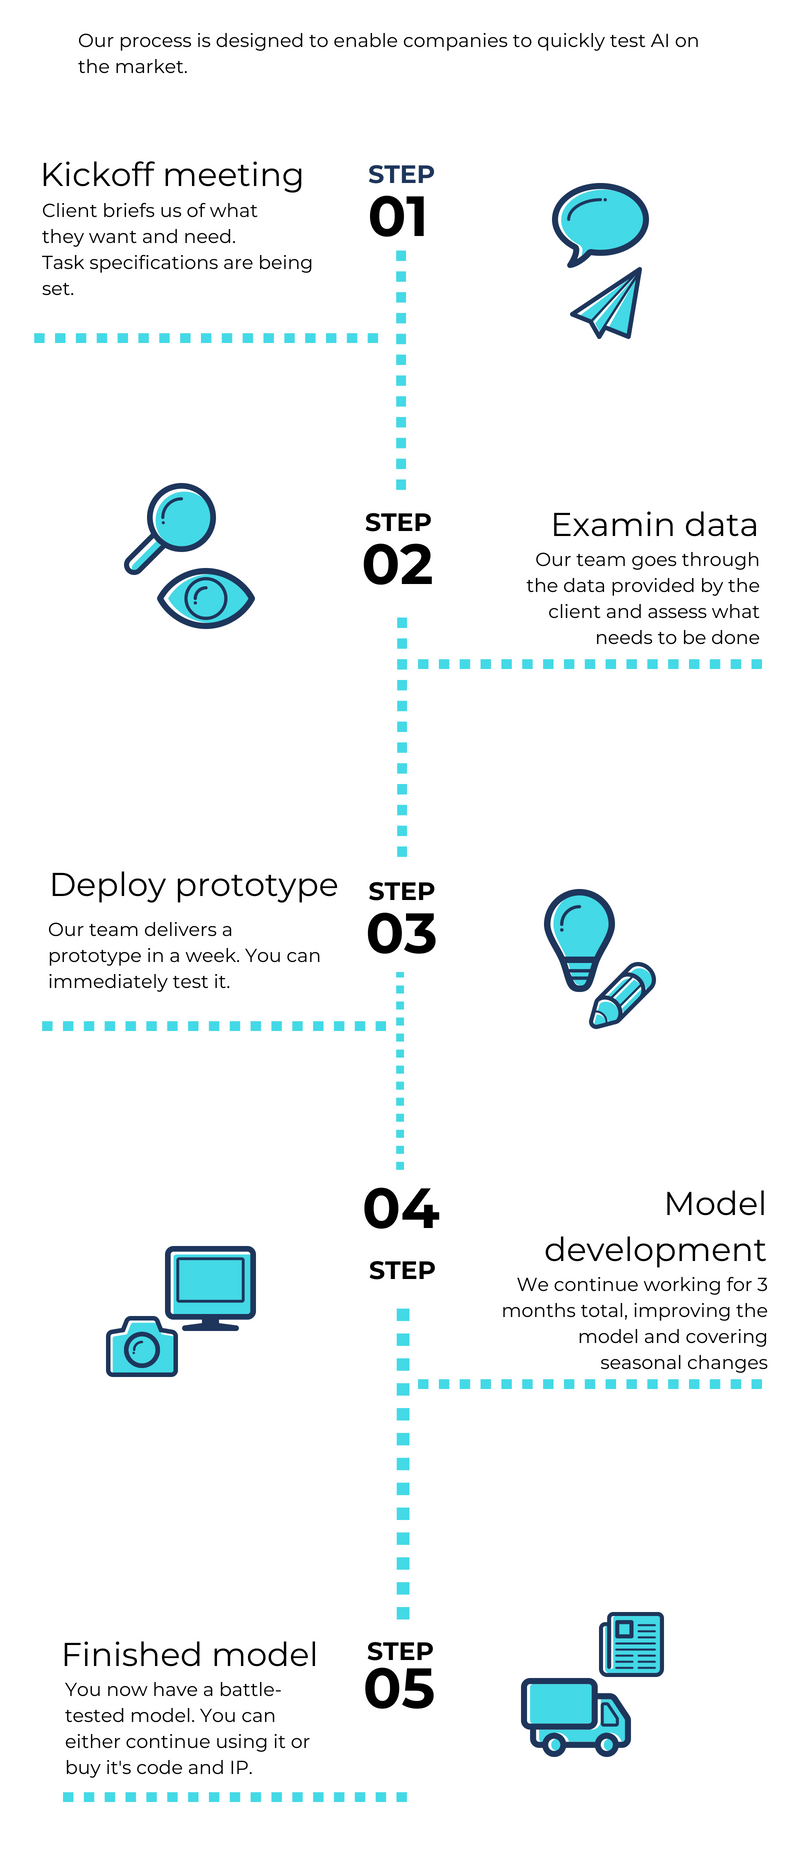
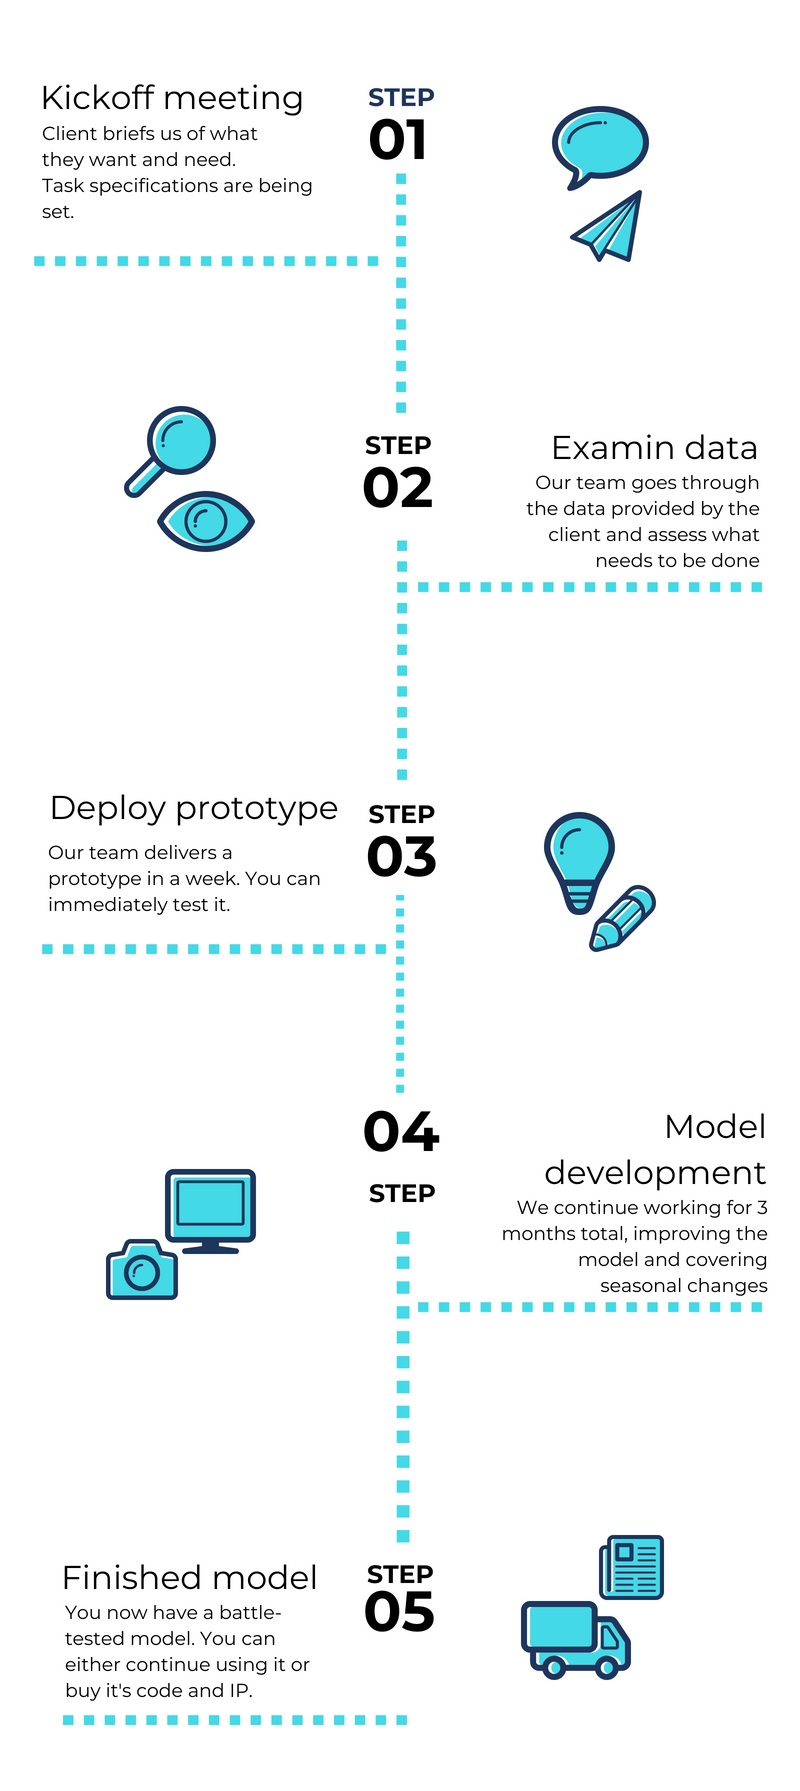
Image changes

diff --git a/Netlyt/index.html b/Netlyt/index.html
@@ -34,7 +34,7 @@
 
     <!--Header_section-->
     <header id="header_outer">
-        <div class="container">
+        <div class="container navigation-wrapper">
             <div class="header_section">
                 <div class="logo">
                     <a href="javascript:void(0)">
@@ -45,13 +45,10 @@
                     <ul class="toggle">
                         <!-- <li><a href="#top_content">Home</a></li> -->
                         <li>
-                            <a href="#service">Features</a>
+                            <a href="#service">What you get with Netlyt</a>
                         </li>
                         <li>
-                            <a href="#keySellingPoints">Key Selling Points</a>
-                        </li>
-                        <li>
-                            <a href="#work_outer">Work</a>
+                            <a href="#keySellingPoints">Why Machine Learning</a>
                         </li>
                         <li>
                             <a href="#Portfolio">Case Studies</a>
@@ -69,13 +66,10 @@
                     <ul class="">
                         <!-- <li><a href="#top_content">Home</a></li> -->
                         <li>
-                            <a href="#service">Features</a>
+                            <a href="#service">What you get with Netlyt</a>
                         </li>
                         <li>
-                            <a href="#keySellingPoints">Key Selling Points</a>
-                        </li>
-                        <li>
-                            <a href="#work_outer">Work</a>
+                            <a href="#keySellingPoints">Why Machine Learning</a>
                         </li>
                         <li>
                             <a href="#Portfolio">Case Studies</a>
@@ -161,7 +155,7 @@
 
     <section id="keySellingPoints">
         <div class="container">
-            <h2>Key Selling Points</h2>
+            <h2>Why Machine Learning</h2>
             <div class="service_area">
                 <div class="row">
                     <div class="col-lg-4 col-md-4 col-sm-4">
@@ -205,7 +199,7 @@
     <!--Features and services-->
     <section id="service">
         <div class="container">
-            <h2>Features</h2>
+            <h2>What you get with Netlyt</h2>
             <div class="service_area">
                 <div class="row">
                     <div class="col-lg-4 col-md-4 col-sm-4">
@@ -260,63 +254,6 @@
     </div>
     <!--Infographic-->
 
-
-    <section id="work_outer">
-        <!--main-section-start-->
-        <div class="top_cont_latest">
-            <div class="container">
-                <h2>Latest Work</h2>
-                <div class="work_section">
-                    <div class="row">
-                        <div class="col-lg-6 col-sm-6 wow fadeInLeft delay-05s">
-                            <div class="service-list">
-                                <div class="service-list-col1">
-                                    <i class="icon-doc"></i>
-                                </div>
-                                <div class="service-list-col2">
-                                    <h3>Process Walkthrough</h3>
-                                    <p>Proin iaculis purus digni consequat sem digni ssim. Donec entum digni ssim.</p>
-                                </div>
-                            </div>
-                            <div class="service-list">
-                                <div class="service-list-col1">
-                                    <i class="icon-comment"></i>
-                                </div>
-                                <div class="service-list-col2">
-                                    <h3>24/7 support</h3>
-                                    <p>Proin iaculis purus consequat sem digni ssim. Digni ssim porttitora .</p>
-                                </div>
-                            </div>
-                            <div class="service-list">
-                                <div class="service-list-col1">
-                                    <i class="icon-database"></i>
-                                </div>
-                                <div class="service-list-col2">
-                                    <h3>Hosting & Storage</h3>
-                                    <p>Proin iaculis purus consequat digni sem digni ssim. Purus donec porttitora entum.</p>
-                                </div>
-                            </div>
-                            <div class="service-list">
-                                <div class="service-list-col1">
-                                    <i class="icon-cog"></i>
-                                </div>
-                                <div class="service-list-col2">
-                                    <h3>Customization options</h3>
-                                    <p>Proin iaculis purus consequat sem digni ssim. Sem porttitora entum.</p>
-                                </div>
-                            </div>
-                            <div class="work_bottom">
-                                <span>Ready to take the plunge?</span>
-                                <a href="#contact" class="contact_btn">Contact Us</a>
-                            </div>
-                        </div>
-                        <figure class="col-lg-6 col-sm-6 text-right wow fadeInUp delay-02s"> </figure>
-                    </div>
-                </div>
-            </div>
-            <!--<div class="work_pic"><img src="img/dashboard_pic.png" alt=""></div>-->
-        </div>
-    </section>
     <!--main-section-end-->
 
     <!--new_portfolio-->
@@ -617,12 +554,10 @@
                     <h3 class="wow fadeInDown delay-03s">Bozhidar Yovchev</h3>
                     <span class="wow fadeInDown delay-03s">Chief Executive Officer</span>
                     <span>
-                        <i class="fa-pencil"></i>
                         <a href="mailto:bozhidar@netlyt.com"> bozhidar@netlyt.com</a>
                     </span>
-                    <span>
-                        <i class="fa fa-linkedin"></i>
-                        <a href="https://www.linkedin.com/in/byovchev/" target="blank"> Bozhidar Yovchev</a>
+                    <span>                        
+                        <a href="https://www.linkedin.com/in/byovchev/" target="blank"><i class="fa fa-linkedin"></i></a>
                     </span>
                     <p class="wow fadeInDown delay-03s">Bozhidar is a sales guy with technical background. Or the other way around. He had the great luck to meet Vasil and Tony and to make them quit their jobs.
                     </p>
@@ -638,12 +573,11 @@
                     <h3 class="wow fadeInDown delay-06s">Tony Petrov</h3>
                     <span class="wow fadeInDown delay-06s">AI researcher and ML Engineer</span>
                     <span>
-                        <i class="fa-pencil"></i>
                         <a href="mailto:tony@netlyt.com"> tony@netlyt.com</a>
                     </span>
                     <span>
-                        <i class="fa fa-linkedin"></i>
-                        <a href="https://www.linkedin.com/in/tony-petrov-5b23a8128/" target="blank"> Tony Petrov</a>
+                        
+                        <a href="https://www.linkedin.com/in/tony-petrov-5b23a8128/" target="blank"> <i class="fa fa-linkedin"></i></a>
                     </span>
                     <p class="wow fadeInDown delay-06s">Тony is an AI engineer. He does that because he is lazy and wants to make the smartest machines possible which can get all his work done. He is also the brain behind Netlyt's predictive models.</p>
                 </div>
@@ -657,12 +591,10 @@
                     <h3 class="wow fadeInDown delay-09s">Vasil Vasilev</h3>
                     <span class="wow fadeInDown delay-09s">Chief Technology Officer</span>
                     <span>
-                        <i class="fa-pencil"></i>
                         <a href="mailto:vasil@netlyt.com"> vasil@netlyt.com</a>
                     </span>
-                    <span>
-                        <i class="fa fa-linkedin"></i>
-                        <a href="https://www.linkedin.com/in/vasil-vasilev/" target="blank"> Vasil Vasilev</a>
+                    <span>                       
+                        <a href="https://www.linkedin.com/in/vasil-vasilev/" target="blank"> <i class="fa fa-linkedin"></i></a>
                     </span>
                     <p class="wow fadeInDown delay-09s">Vasil is responsible for the backend @ Netlyt. He loves solving tech puzzles and have read milions of lines of code. He also debugs while sleeping.</p>
                 </div>

diff --git a/Netlyt/css/style.css b/Netlyt/css/style.css
@@ -154,6 +154,10 @@ p {
     float: left;
 }
 
+.logo img {
+    width: 75%;
+}
+
 .res-nav_click {
     display: none;
 }
@@ -161,6 +165,10 @@ p {
 
 /* Nav Styles
 ---------------------------------*/
+
+.container.navigation-wrapper {
+    width: 80%;
+}
 
 .nav {
     float: right;
@@ -426,7 +434,7 @@ a.learn_more2:hover {
 }
 
 #infographic.fullGraph {
-    height: 1820px;
+    height: 1800px;
 }
 
 #infographic img {
@@ -652,7 +660,7 @@ a.contact_btn:hover {
 }
 
 img {
-    max-width: 75%;
+    max-width: 100%;
 }
 
 
@@ -793,7 +801,8 @@ img {
 ---------------------------------*/
 
 .c-logo-part {
-    background: url(../img/trusted-by.png) left top;
+    /* background: url(../img/trusted-by.png) left top; */
+    background: black;
     background-repeat: repeat-x;
     padding: 80px 0;
     margin-top: 60px;
@@ -898,6 +907,7 @@ img {
 .team-leader img {
     display: block;
     border-radius: 50%;
+    height: 270px;
 }
 
 .team-leader ul {
